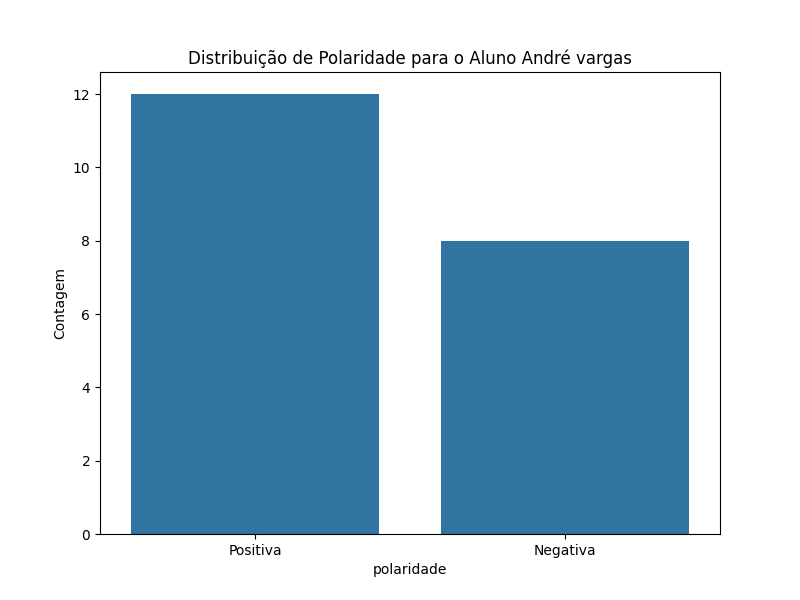
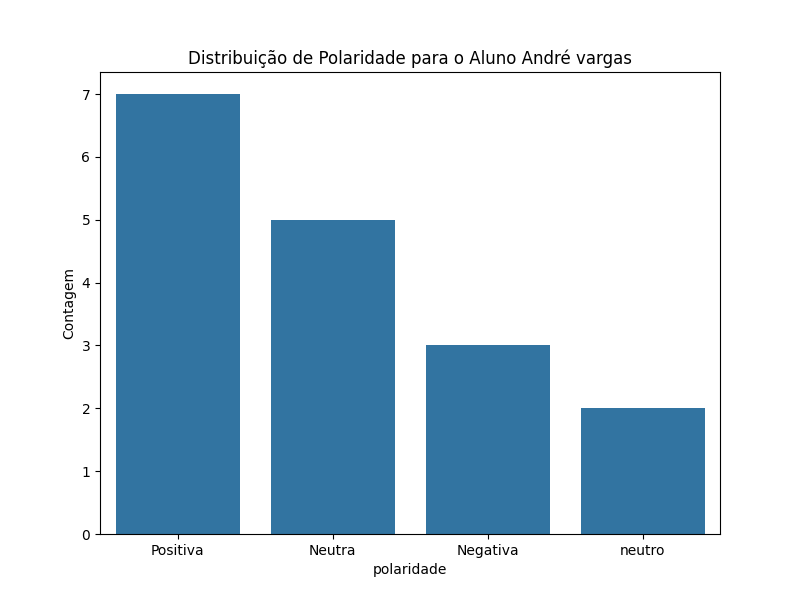
09/10

diff --git a/app/templates/graficos_alunos.html b/app/templates/graficos_alunos.html
@@ -89,6 +89,9 @@
                             <div class="col">
                                 <img src="{{ nuvem_path }}" alt="Nuvem de Palavras" class="img-fluid">
                             </div>
+                            <div>
+                                <img src="{{ graph_negativo_path }}" alt="Gráfico de Polaridade Negativa">
+                            </div>
                         </div>
                         {% endif %}
                     </div>

diff --git a/app/rotas2.py b/app/rotas2.py
@@ -32,12 +32,12 @@ def menu_soe():
 
 @rotas2.route('/grafico')
 def grafico():
-    ra = request.args.get('ra') 
+    ra = request.args.get('ra')  # Traz o ra que está linkado com o nome 
     polaridade_desejada = request.args.get('polaridade')  # Captura a polaridade selecionada
 
     # Faz o join entre Aluno e DiarioBordo para obter a polaridade e o nome do aluno com base no RA
     query = (
-        db_session.query(Aluno.nome, DiarioBordo.polaridade, DiarioBordo.texto)
+        db_session.query(Aluno.nome, DiarioBordo.datahora, DiarioBordo.polaridade, DiarioBordo.texto)
         .join(DiarioBordo, Aluno.ra == DiarioBordo.fk_aluno_ra)
         .filter(Aluno.ra == ra)
         .all()
@@ -46,15 +46,15 @@ def grafico():
     if not query:
         return "Nenhum dado encontrado para o aluno selecionado.", 404
 
-    # Criar DataFrame a partir da consulta
-    df = pd.DataFrame(query, columns=['nome', 'polaridade', 'texto'])
+    # Cria um DataFrame
+    df = pd.DataFrame(query, columns=['nome', 'datahora', 'polaridade', 'texto'])
 
-    # Contar a polaridade
+    # Contar a polaridade - Positiva, Neutra, Negativa
     count_df = df['polaridade'].value_counts().reset_index()
     count_df.columns = ['polaridade', 'count']
 
-    # Obter o nome do aluno
-    aluno_nome = df['nome'].iloc[0]  # Pega o nome do aluno da primeira linha
+    # Obter o nome do aluno para o gráfico
+    aluno_nome = df['nome'].iloc[0]
 
     # Criar o gráfico de polaridade
     plt.figure(figsize=(8, 6))
@@ -66,6 +66,7 @@ def grafico():
     base_dir = os.path.abspath(os.path.dirname(__file__))
     static_dir = os.path.join(base_dir, 'static')
 
+    # Verifica se o caminho existe
     if not os.path.exists(static_dir):
         os.makedirs(static_dir)
 
@@ -75,10 +76,10 @@ def grafico():
     plt.savefig(graph_path)
     plt.close()
 
-    # Gerar nuvem de palavras com filtro de polaridade
+    # Gerar nuvem de palavras com filtro de qual polaridade
     if polaridade_desejada:
         df_filtrado = df[df['polaridade'] == polaridade_desejada]
-        
+
         print(f'Polaridade desejada: {polaridade_desejada}')  # Log da polaridade desejada
         print(f'Dados filtrados: {df_filtrado}')  # Log dos dados filtrados
 
@@ -89,21 +90,51 @@ def grafico():
 
             wordcloud = WordCloud(width=800, height=400, background_color='white', stopwords=stopwords).generate(texto_combined)
 
+            # Criar a figura para a nuvem de palavras
+            plt.figure(figsize=(10, 5))
+            plt.imshow(wordcloud, interpolation='bilinear')
+            plt.axis('off')  # Desliga os eixos
+            plt.title(f'Nuvem de palavras da polaridade {polaridade_desejada}', fontsize=20)  # Adiciona o título
+
             # Salvar a nuvem de palavras
             nuvem_filename = f'nuvem_palavras_{ra}.png'
             nuvem_path = os.path.join(static_dir, nuvem_filename)
-            wordcloud.to_file(nuvem_path)
+            plt.savefig(nuvem_path, bbox_inches='tight')  # Salva a figura com o título
+            plt.close()  # Fecha a figura
             print(f'Nuvem de palavras salva em: {nuvem_path}')  # Log do caminho salvo
         else:
             print('Nenhum texto disponível para a nuvem de palavras.')  # Log se não houver textos
             nuvem_path = None  # Não gera nuvem de palavras se não houver textos
     else:
         nuvem_path = None  # Se não houver polaridade desejada, não gera nuvem de palavras
-    
+
+    # Gerar gráfico de linha para polaridade negativa
+    df_negativa = df[df['polaridade'] == 'Negativa']
+
+    if not df_negativa.empty:
+        plt.figure(figsize=(10, 5))
+        plt.plot(df_negativa['datahora'], df_negativa['polaridade'], marker='o')
+        plt.title(f'Polaridade Negativa ao Longo do Tempo para {aluno_nome}')
+        plt.xlabel('Data e Hora')
+        plt.ylabel('Polaridade')
+        plt.xticks(rotation=45)
+        plt.grid()
+
+        # Salvar o gráfico de polaridade negativa
+        grafico_negativo_filename = f'grafico_negativo_{ra}.png'
+        graph_negativo_path = os.path.join(static_dir, grafico_negativo_filename)
+        plt.savefig(graph_negativo_path)
+        plt.close()
+
+        print(f'Gráfico de polaridade negativa salvo em: {graph_negativo_path}')  # Log do caminho salvo
+    else:
+        graph_negativo_path = None  # Se não houver dados negativos, não gera gráfico
+
     rg = session['rg']
     alunos = db_session.query(Aluno).all()
     nome = session['nome']
-    return render_template('graficos_alunos.html', graph_path=f'/static/{grafico_filename}', nuvem_path=f'/static/{nuvem_filename}', nome=nome, alunos=alunos,rg=rg)
+    return render_template('graficos_alunos.html', graph_path=f'/static/{grafico_filename}', nuvem_path=f'/static/{nuvem_filename}', graph_negativo_path=f'/static/{grafico_negativo_filename}', nome=nome, alunos=alunos, rg=rg)
+
 
 
 @rotas2.route('/menu_soe')

diff --git a/app/rotas1.py b/app/rotas1.py
@@ -153,11 +153,11 @@ def DiarioDeBordoInsert():
         polaridade = blob.sentiment.polarity
 
         if polaridade > 0:
-            polaridade = "positivo"
+            polaridade = "Positiva"
         elif polaridade == 0:
-            polaridade = "neutro"
+            polaridade = "Neutra"
         else:
-            polaridade = "negativo"
+            polaridade = "Negativa"
 
         # Salva o arquivo de áudio
         tts.save(audio_full_path)
@@ -166,7 +166,7 @@ def DiarioDeBordoInsert():
         audio_path = url_for('static', filename=audio_filename)
 
         if acao == 'gerar_audio_e_salvar':
-            novo_diario = DiarioBordo(texto=texto, fk_aluno_ra=fk_aluno_ra, datahora=submission_time, polaridade=polaridade)
+            novo_diario = DiarioBordo(texto=texto, fk_aluno_ra=fk_aluno_ra, polaridade=polaridade)
 
             try:
                 db_session.add(novo_diario)

diff --git a/app/diariobordo.py b/app/diariobordo.py
@@ -1,3 +1,4 @@
+from datetime import datetime, timezone
 from flask_sqlalchemy import SQLAlchemy
 
 db = SQLAlchemy()
@@ -6,10 +7,11 @@ class DiarioBordo(db.Model):
     __tablename__ = 'diariobordo'
     id = db.Column(db.Integer, primary_key=True)
     texto = db.Column(db.Text, nullable=True)
-    datahora = db.Column(db.DateTime, nullable=True)  # Data e hora automáticas
-    fk_aluno_ra = db.Column(db.String(10), db.ForeignKey('aluno.ra'), nullable=False)
+    datahora = db.Column(db.DateTime, default=lambda: datetime.now(timezone.utc), nullable=True)
+    fk_aluno_ra = db.Column(db.String(8), nullable=False)
     polaridade = db.Column(db.Text, nullable=True)
 
-    def __init__(self, texto, fk_aluno_ra):
+    def __init__(self, texto, fk_aluno_ra, polaridade=None):
         self.texto = texto
         self.fk_aluno_ra = fk_aluno_ra
+        self.polaridade = polaridade

diff --git a/app/database.py b/app/database.py
@@ -1,7 +1,7 @@
 from importacoes import *
 
 user = 'root'
-password = urllib.parse.quote_plus('andre123')
+password = urllib.parse.quote_plus('senai@123')
 host = 'localhost'
 database = 'projetodiario1'
 connection_string = f'mysql+pymysql://{user}:{password}@{host}/{database}'

diff --git a/app/aluno.py b/app/aluno.py
@@ -10,3 +10,5 @@ class Aluno(db.Model):
     nome = db.Column(db.String(80))  # Nome
     tempoestudo = db.Column(db.Integer, nullable=False)  # Tempo de estudo
     rendafamiliar = db.Column(db.DECIMAL(10, 2))  # Renda familiar
+
+    
